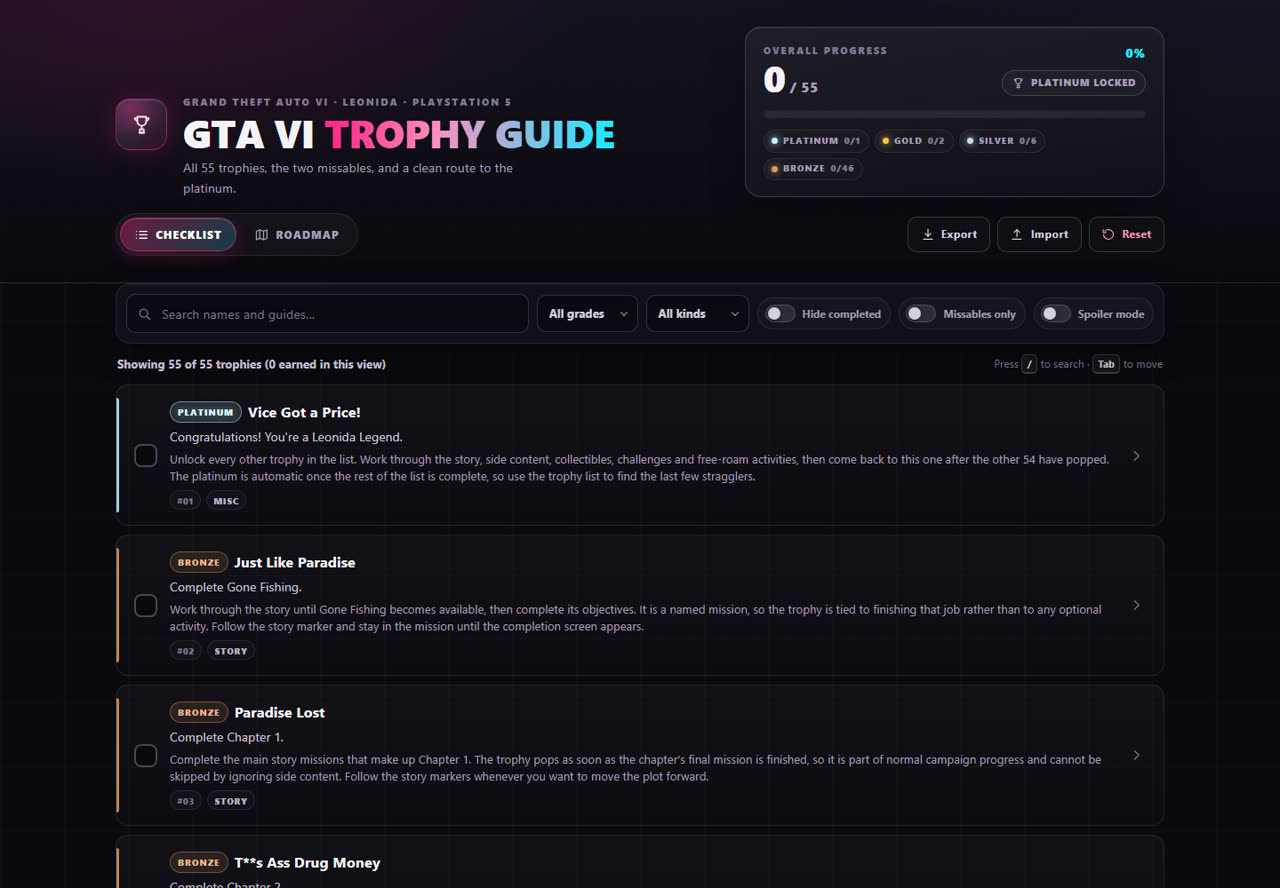
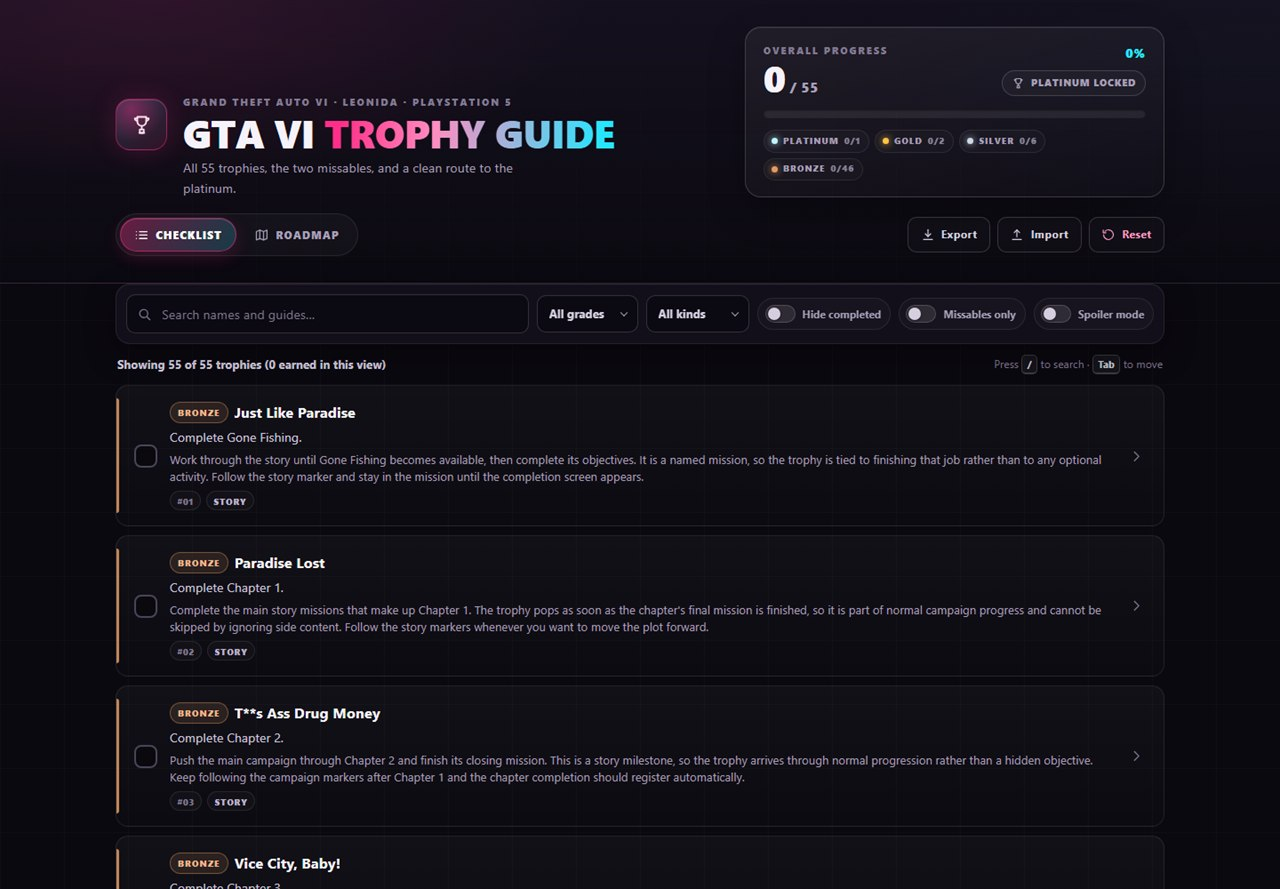
Fix: platinum locks until the other 54 are earned, listed last, screenshots retaken

diff --git a/app/app.js b/app/app.js
@@ -39,6 +39,7 @@ const defaultFilters = () => ({ grade: 'all', kind: 'all', query: '', hideComple
 const state = { earned: new Set(), spoiler: false, filters: defaultFilters(), tab: 'checklist' };
 
 let trophies = [];
+let platinumTrophy = null;
 let roadmap = null;
 let byTrophyId = new Map();
 let byTrophyName = new Map();
@@ -78,6 +79,7 @@ function loadState() {
     const raw = JSON.parse(localStorage.getItem(STORAGE_KEY));
     if (!raw || typeof raw !== 'object') return;
     state.earned = sanitizeEarned(raw.earned);
+    syncPlatinum();
     state.spoiler = raw.spoiler === true;
     state.filters = sanitizeFilters(raw.filters);
     if (TABS.includes(raw.tab)) state.tab = raw.tab;
@@ -106,7 +108,16 @@ function saveState() {
 const isEarned = (trophy) => state.earned.has(trophy.id);
 const isHidden = (trophy) => state.spoiler && trophy.kind === 'story' && !isEarned(trophy);
 const kindLabel = (kind) => KIND_LABELS[kind] || kind;
-const padId = (id) => '#' + String(id).padStart(2, '0');
+const positionTag = (trophy) => '#' + String(trophies.indexOf(trophy) + 1).padStart(2, '0');
+const platinumLocked = () => trophies.some((trophy) => trophy.grade !== 'platinum' && !state.earned.has(trophy.id));
+const platinumHint = () => platinumLocked()
+  ? 'Earn the other ' + (trophies.length - 1) + ' trophies first'
+  : 'Earned automatically: all ' + (trophies.length - 1) + ' other trophies are done';
+function syncPlatinum() {
+  if (!platinumTrophy) return;
+  if (platinumLocked()) state.earned.delete(platinumTrophy.id);
+  else state.earned.add(platinumTrophy.id);
+}
 
 function gradeBadge(grade) {
   return el('span', 'badge badge--' + grade, grade);
@@ -233,6 +244,14 @@ function buildRow(trophy) {
   const visual = el('span', 'check-box');
   visual.append(tplIcon('tpl-icon-check'));
   wrap.append(box, visual);
+  if (trophy.grade === 'platinum') {
+    const hint = el('span', '', 'Earn the other ' + (trophies.length - 1) + ' trophies first; the platinum then unlocks automatically.');
+    hint.id = 'platinum-hint';
+    hint.hidden = true;
+    box.setAttribute('aria-describedby', hint.id);
+    box.addEventListener('click', (event) => event.preventDefault());
+    wrap.append(hint);
+  }
 
   const main = el('button', 'trophy-main');
   main.type = 'button';
@@ -247,7 +266,7 @@ function buildRow(trophy) {
   const excerpt = el('span', 'trophy-excerpt', hidden ? '' : trophy.guide);
   if (hidden) excerpt.hidden = true;
   const meta = el('span', 'trophy-meta');
-  meta.append(el('span', 'chip chip--id', padId(trophy.id)), el('span', 'chip chip--kind', kindLabel(trophy.kind)));
+  meta.append(el('span', 'chip chip--id', positionTag(trophy)), el('span', 'chip chip--kind', kindLabel(trophy.kind)));
   main.append(top, desc, excerpt, meta);
   main.addEventListener('click', () => openDetail(trophy.id));
 
@@ -257,6 +276,16 @@ function buildRow(trophy) {
 
   item.append(wrap, main, chevron);
   return { item, box };
+}
+
+function syncPlatinumRow() {
+  if (!platinumTrophy) return;
+  const row = rowRefs.get(platinumTrophy.id);
+  if (!row) return;
+  row.box.disabled = platinumLocked();
+  row.box.checked = isEarned(platinumTrophy);
+  row.box.title = platinumHint();
+  row.item.dataset.earned = String(isEarned(platinumTrophy));
 }
 
 function renderList() {
@@ -269,6 +298,7 @@ function renderList() {
     rowRefs.set(trophy.id, row);
     list.append(row.item);
   }
+  syncPlatinumRow();
   const active = activeFilterParts();
   byId('visible-count').textContent = 'Showing ' + visible.length + ' of ' + trophies.length + ' trophies (' + visible.filter(isEarned).length + ' earned in this view)';
   byId('clear-filters').hidden = active.length === 0;
@@ -284,8 +314,15 @@ function renderList() {
 function setEarned(id, earned) {
   const trophy = byTrophyId.get(id);
   if (!trophy) return;
+  if (trophy.grade === 'platinum') {
+    const platinumRow = rowRefs.get(id);
+    if (platinumRow) platinumRow.box.checked = isEarned(trophy);
+    if (detailDialog.open && detailOrder[detailIndex] === id) byId('detail-earned').checked = isEarned(trophy);
+    return;
+  }
   if (earned) state.earned.add(id);
   else state.earned.delete(id);
+  syncPlatinum();
   saveState();
   renderHeader();
   renderGradeStats();
@@ -299,6 +336,7 @@ function setEarned(id, earned) {
       if (isHidden(trophy)) row.item.dataset.locked = 'true';
       else delete row.item.dataset.locked;
     }
+    syncPlatinumRow();
     byId('visible-count').textContent = 'Showing ' + rowRefs.size + ' of ' + trophies.length + ' trophies (' + [...rowRefs.keys()].filter((key) => state.earned.has(key)).length + ' earned in this view)';
   }
   renderRoadmap();
@@ -346,7 +384,7 @@ function fillDetail() {
   byId('detail-desc').textContent = hidden ? HIDDEN_DESC : trophy.description;
 
   const badges = byId('detail-badges');
-  badges.replaceChildren(gradeBadge(trophy.grade), el('span', 'chip chip--kind', kindLabel(trophy.kind)), el('span', 'chip chip--id', padId(trophy.id)));
+  badges.replaceChildren(gradeBadge(trophy.grade), el('span', 'chip chip--kind', kindLabel(trophy.kind)), el('span', 'chip chip--id', positionTag(trophy)));
   if (trophy.missable) badges.append(missableBadge());
   if (isEarned(trophy)) {
     const earned = el('span', 'chip');
@@ -363,7 +401,10 @@ function fillDetail() {
   const sources = byId('detail-sources');
   sources.replaceChildren();
   if (!hidden) for (const source of trophy.sources || []) sources.append(el('li', '', source));
-  byId('detail-earned').checked = isEarned(trophy);
+  const detailBox = byId('detail-earned');
+  detailBox.checked = isEarned(trophy);
+  detailBox.disabled = trophy.grade === 'platinum';
+  detailBox.title = trophy.grade === 'platinum' ? platinumHint() : '';
   byId('detail-position').textContent = (detailIndex + 1) + ' / ' + detailOrder.length;
   byId('detail-prev').disabled = detailIndex <= 0;
   byId('detail-next').disabled = detailIndex >= detailOrder.length - 1;
@@ -433,6 +474,7 @@ async function importProgress(file) {
   try {
     const parsed = parseImport(await file.text());
     state.earned = parsed.earned;
+    syncPlatinum();
     state.spoiler = parsed.spoiler;
     state.filters = parsed.filters;
     state.tab = parsed.tab;
@@ -444,7 +486,7 @@ async function importProgress(file) {
     renderRoadmap();
     setTab(parsed.tab);
     if (detailDialog.open) fillDetail();
-    showToast('Imported ' + parsed.earned.size + ' earned trophies');
+    showToast('Imported ' + state.earned.size + ' earned trophies');
   } catch (error) {
     showToast('Import failed: ' + (error && error.message ? error.message : 'invalid file'));
   }
@@ -679,7 +721,8 @@ async function boot() {
     if (!trophyDoc || !Array.isArray(trophyDoc.trophies) || trophyDoc.trophies.length === 0) {
       throw new Error('trophies.json has no trophy list');
     }
-    trophies = trophyDoc.trophies;
+    trophies = trophyDoc.trophies.slice().sort((a, b) => Number(a.grade === 'platinum') - Number(b.grade === 'platinum') || a.id - b.id);
+    platinumTrophy = trophies.find((trophy) => trophy.grade === 'platinum') || null;
     roadmap = roadmapDoc && typeof roadmapDoc === 'object' ? roadmapDoc : null;
   } catch (error) {
     byId('boot').hidden = true;

diff --git a/app/style.css b/app/style.css
@@ -744,6 +744,8 @@ kbd {
 }
 
 .earn:hover + .check-box { border-color: var(--cyan); }
+.earn:disabled + .check-box { opacity: 0.45; cursor: not-allowed; }
+.earn:disabled:hover + .check-box { border-color: var(--line); }
 
 .earn:checked + .check-box {
   border-color: transparent;
